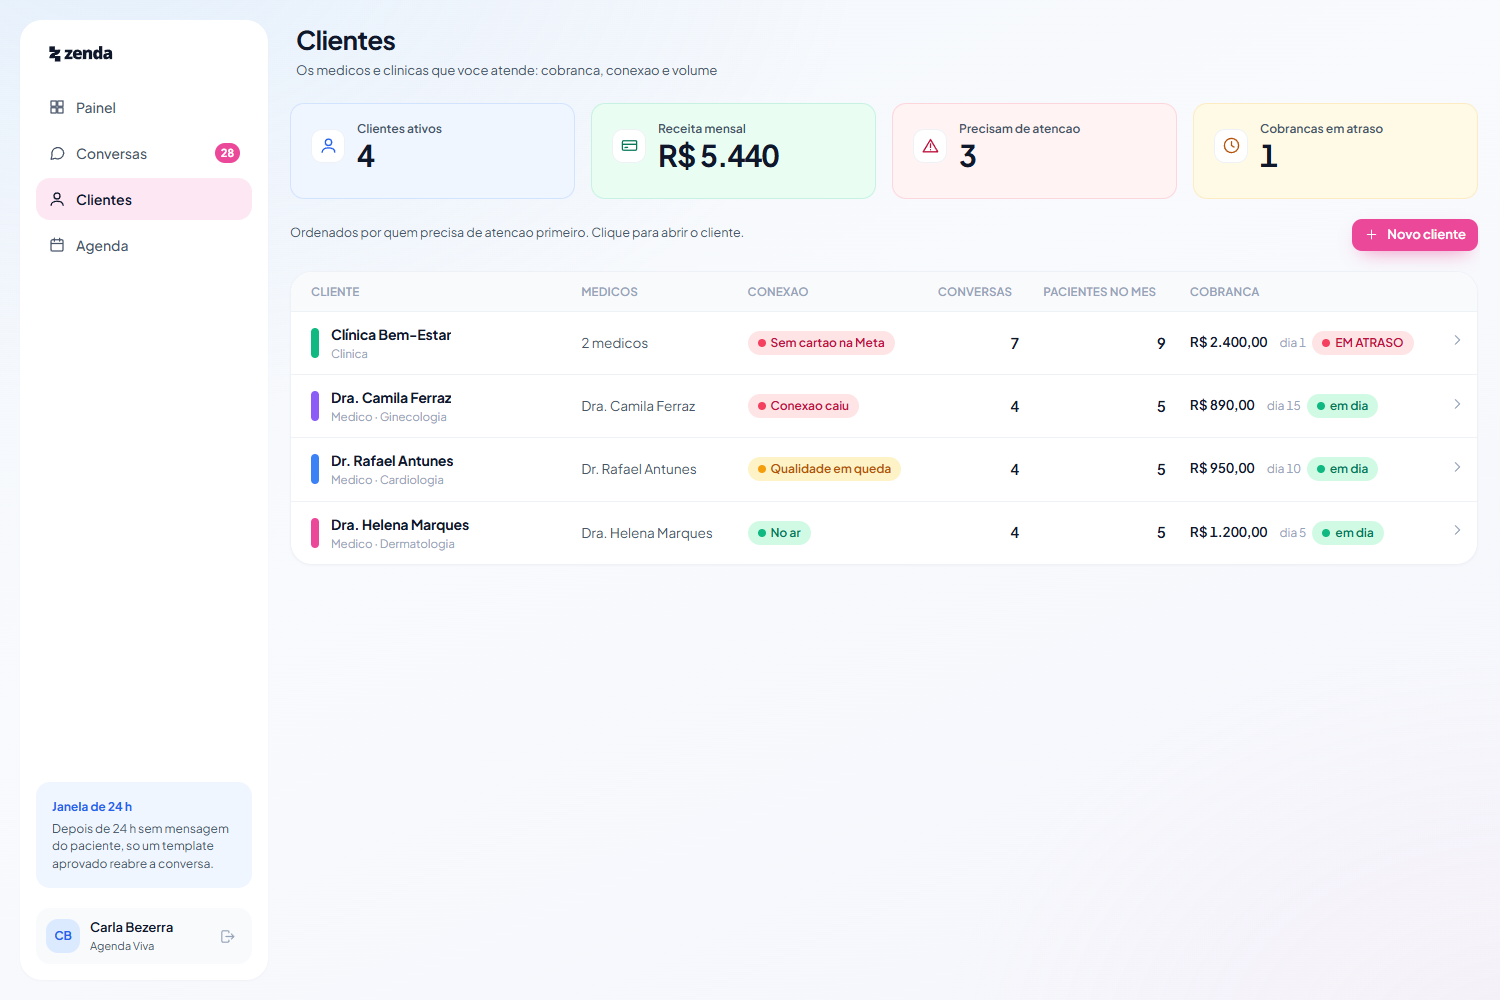
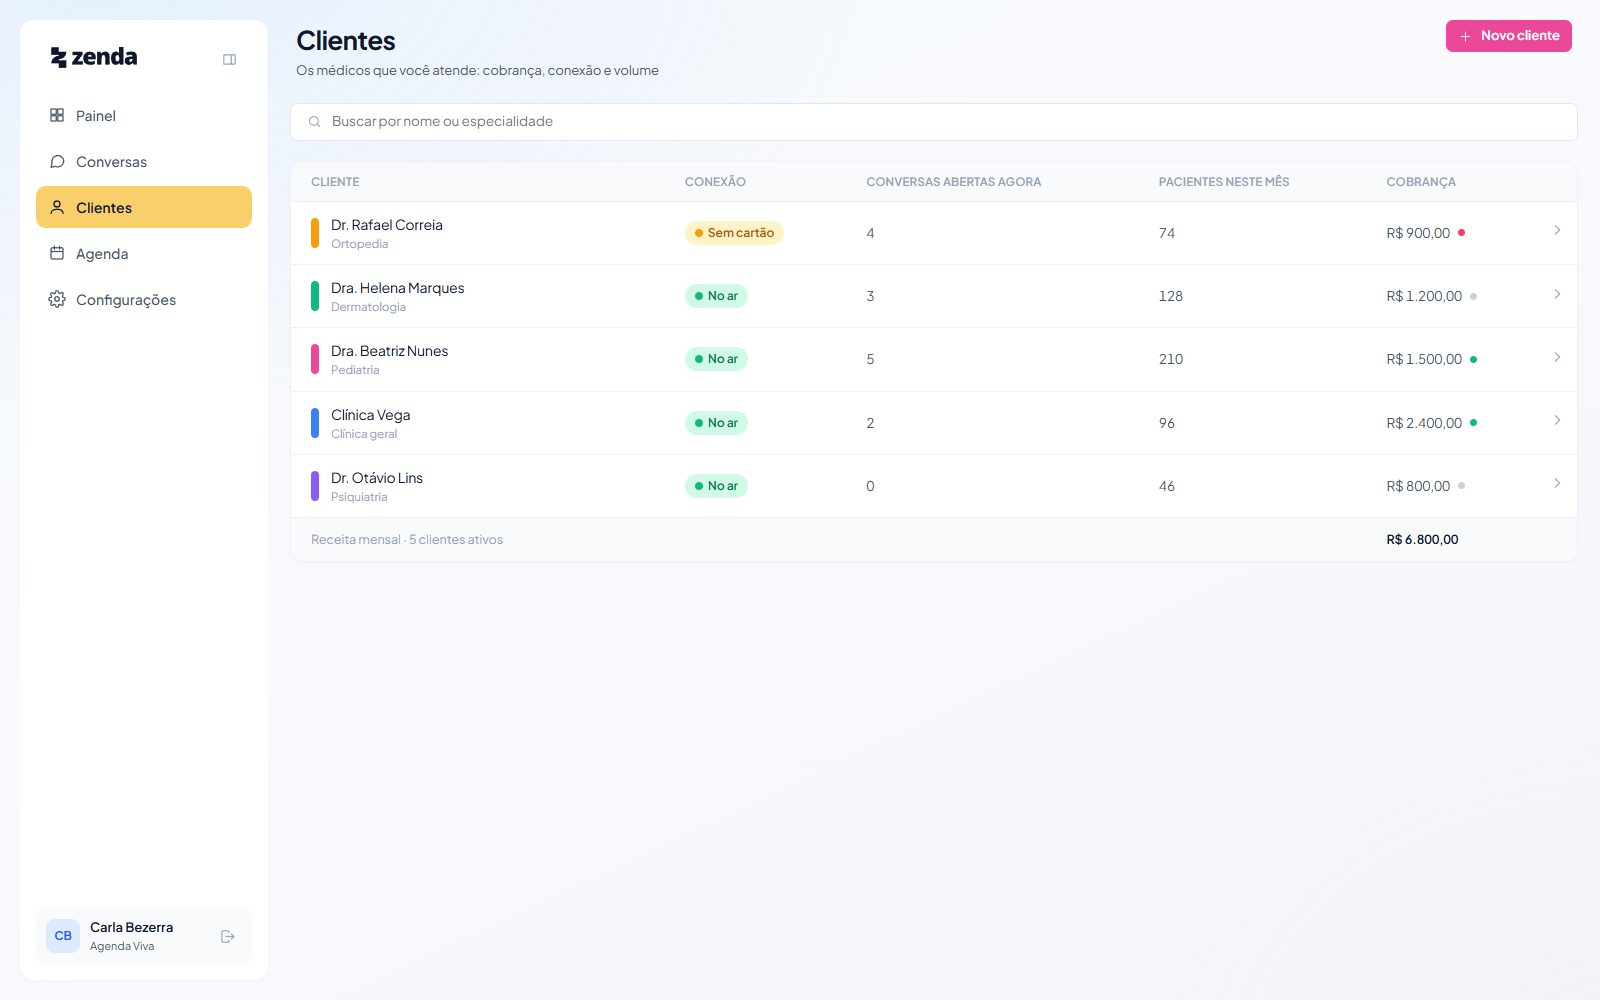
zenda: refaz as capturas de conversas e clientes
As duas ultimas telas ainda eram do UI antigo. Refeitas com o produto
atual e com dados que contam a historia da secao: cinco pacientes de
cinco clientes diferentes na mesma fila, e a lista de clientes ordenada
por quem precisa de atencao.

A copy de clientes prometia colunas que a tela nao tem (qualidade,
conexao caida). Reescrita para o que a captura mostra.

pacientes.png e ficha.png sairam com as secoes que os usavam.

diff --git a/content/en.ts b/content/en.ts
@@ -392,21 +392,21 @@ const zenda: Zenda = {
   showcase: {
     kicker: "Inside",
     headline: { before: "Not a mockup. The", accent: "product", after: "running" },
-    lede: "The screens below come from Zenda in use, with demonstration data. No real patient appears here. The interface is in Brazilian Portuguese — Zenda runs on WhatsApp in Brazil, and that is who it is built for.",
+    lede: "The screens below come from Zenda in use, with demonstration data. No real patient appears here. The interface is in Brazilian Portuguese, because Zenda runs on WhatsApp in Brazil and that is who it is built for.",
     shots: [
       {
         id: "inbox",
         src: "/zenda/inbox.png",
         alt: "Zenda inbox showing patients from several clinics in one list, each tagged with its client",
         title: "The single inbox",
-        body: "Patients from all your clients in the same queue. Each row says which clinic the person belongs to, how long they have been waiting and how much is left of WhatsApp's 24-hour window — after it, only an approved template reopens the conversation.",
+        body: "Patients from all your clients in the same queue. Each row says which clinic the person belongs to, how long they have been waiting and how much is left of WhatsApp's 24-hour window. After it, only an approved template reopens the conversation.",
       },
       {
         id: "clients",
         src: "/zenda/clientes.png",
-        alt: "Zenda client table with billing, connection health and monthly patient volume",
+        alt: "Zenda client table with connection health, open conversations, monthly patient volume and billing",
         title: "Your clients",
-        body: "Sorted by who needs attention first: dropped connection, missing card at Meta, quality slipping, payment overdue. What breaks on its own shows up before the doctor calls to complain.",
+        body: "Sorted by who needs attention first. Dr. Rafael is at the top because his Meta account has no card on file: the number connects and does not send, and it is the failure nobody notices until a patient stops replying. Beside it, how many patients each doctor brought in this month, which is the number that carries the conversation about raising your fee.",
       },
       {
         id: "booking",

diff --git a/content/pt-BR.ts b/content/pt-BR.ts
@@ -377,14 +377,14 @@ export const ptBR: Dictionary = {
           src: "/zenda/inbox.png",
           alt: "Caixa de conversas do Zenda com pacientes de várias clínicas na mesma lista, cada um com a etiqueta do cliente",
           title: "A caixa unificada",
-          body: "Pacientes de todos os seus clientes na mesma fila. Cada linha diz de qual clínica a pessoa vem, há quanto tempo espera resposta e quanto falta da janela de 24 h do WhatsApp — depois dela, só um template aprovado reabre a conversa.",
+          body: "Pacientes de todos os seus clientes na mesma fila. Cada linha diz de qual clínica a pessoa vem, há quanto tempo espera resposta e quanto falta da janela de 24 h do WhatsApp. Depois dela, só um template aprovado reabre a conversa.",
         },
         {
           id: "clients",
           src: "/zenda/clientes.png",
-          alt: "Tabela de clientes do Zenda com cobrança, estado da conexão e volume de pacientes por mês",
+          alt: "Tabela de clientes do Zenda com estado da conexão, conversas abertas, pacientes do mês e cobrança",
           title: "Seus clientes",
-          body: "Ordenados por quem precisa de atenção primeiro: conexão caída, cartão faltando na conta da Meta, qualidade em queda, mensalidade em atraso. O que quebra sozinho aparece antes de o médico ligar reclamando.",
+          body: "Ordenados por quem precisa de atenção primeiro. O Dr. Rafael está no topo porque falta cartão na conta dele na Meta: o número conecta e não envia, e é o defeito que ninguém percebe até o paciente não responder. Ao lado, quantos pacientes cada médico deu no mês, que é o número que sustenta a conversa sobre reajuste.",
         },
         {
           id: "booking",
